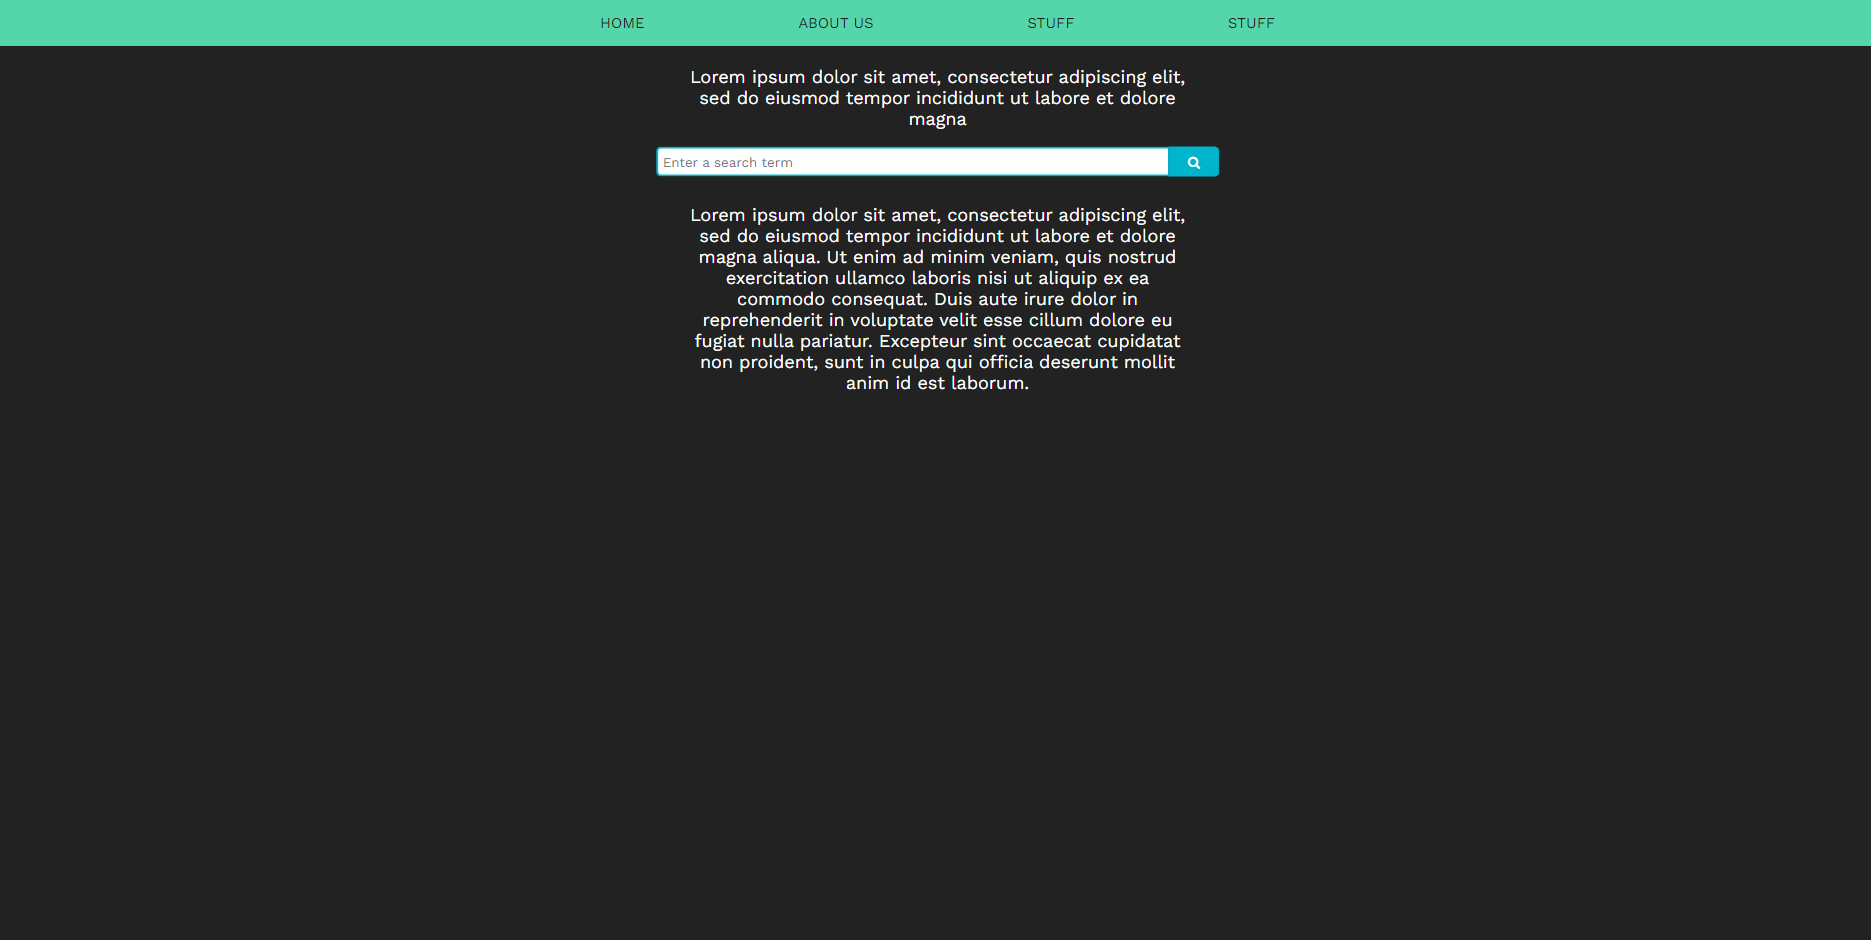
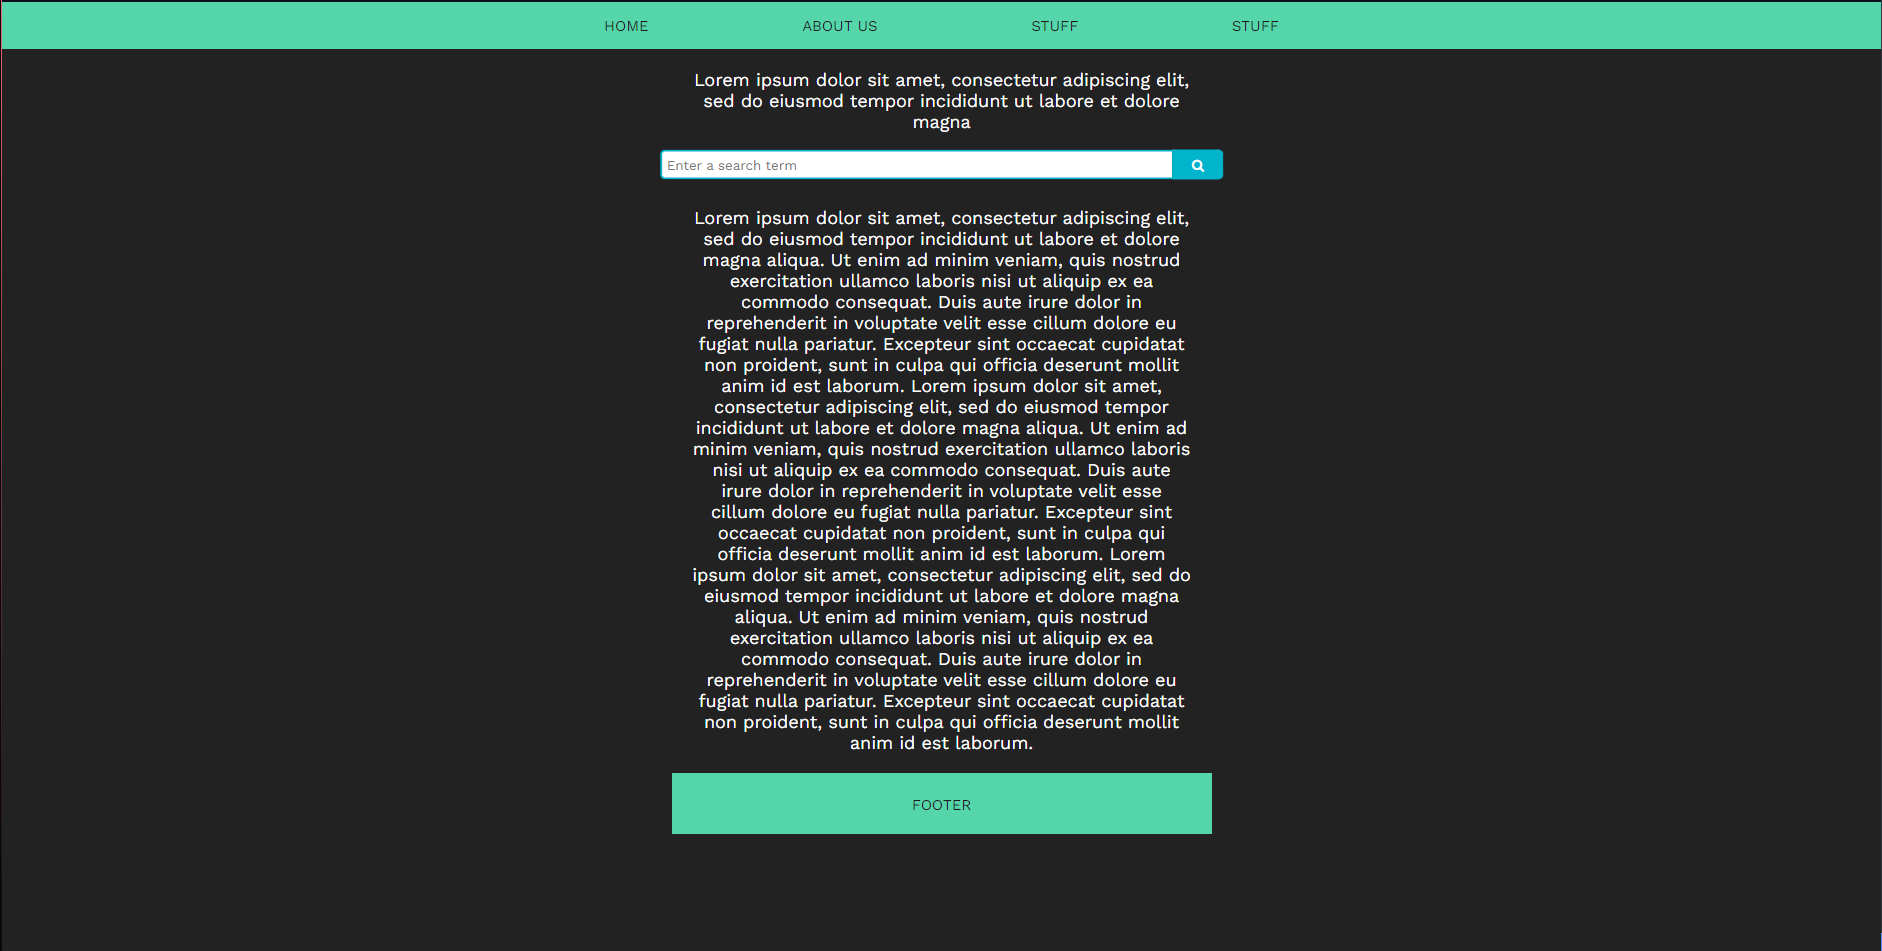
Just some test sql stuff, and basic formatting (i hate sql)

Changed region(s): [[0.0, 0.0, 1.0, 0.8947]]

diff --git a/templates/index.html b/templates/index.html
@@ -1,110 +1,77 @@
 <!DOCTYPE html>
 <html lang="en">
+
 <head>
-    <meta charset="utf-8">
-    <!--use the <link> class and not the <meta> (you are stupid) -->
-    <link rel="stylesheet" href="{{ url_for('static', filename='style.css')}}" type="text/css">
-    <link rel="stylesheet" href="https://cdnjs.cloudflare.com/ajax/libs/font-awesome/4.7.0/css/font-awesome.min.css">
-    <title>Hello World</title>
-    
+  <meta charset="utf-8">
+  <!--use the <link> class and not the <meta> (you are stupid) -->
+  <link rel="stylesheet" href="{{ url_for('static', filename='style.css')}}" type="text/css">
+  <link rel="stylesheet" href="https://cdnjs.cloudflare.com/ajax/libs/font-awesome/4.7.0/css/font-awesome.min.css">
+  <title>Hello World</title>
+
 </head>
 <header>
-    <div class="container">
-      <nav>
-        <ul>
-          <li><a href="#">Home</a></li>
-          <li><a href="#">About Us</a></li>
-          <li><a href="#">Stuff</a></li>
-          <li><a href="#">Stuff</a></li>
-        </ul>
-      </nav>
-    </div>
-  </header>
+  <div class="container">
+    <nav>
+      <ul>
+        <li><a href="#">Home</a></li>
+        <li><a href="#">About Us</a></li>
+        <li><a href="#">Stuff</a></li>
+        <li><a href="#">Stuff</a></li>
+      </ul>
+    </nav>
+  </div>
+</header>
+
 <body>
-    <!-- double curly brackets means using a variable that has been passed through from flask/python: {{search_query}}-->
-    <p>
-      Lorem ipsum dolor sit amet, consectetur adipiscing elit, 
+  <!-- double curly brackets means using a variable that has been passed through from flask/python: {{search_query}}-->
+  <p>
+    Lorem ipsum dolor sit amet, consectetur adipiscing elit,
+    sed do eiusmod tempor incididunt ut labore et dolore magna
+  </p>
+  <!--i'm not doing the actual search function for a long time btw-->
+  <div class="wrap">
+    <form class="search" action="search_home_page" method="POST">
+      <br>
+      <input type="search" name="search_query" class="searchTerm" placeholder="Enter a search term">
+      <br>
+      <button type="submit" id="search_home_page" class="searchButton"><i class="fa fa-search"></i></button>
+    </form>
+  </div>
+  <div class="main_text_body">
+    <p2>
+      Lorem ipsum dolor sit amet, consectetur adipiscing elit,
       sed do eiusmod tempor incididunt ut labore et dolore magna
-    </p>
-    <!--i'm not doing the actual search function for a long time btw-->
-    <div class="wrap">
-      <form class="search" action="search_home_page" method="POST">
-          <br>
-          <input type="search" name="search_query" class="searchTerm" placeholder="Enter a search term">
-          <br>
-          <button type="submit"id="search_home_page" class="searchButton"><i class="fa fa-search"></i></button>
-      </form>
-    </div>
-    <div class="main_text_body">
-      <p2>
-        Lorem ipsum dolor sit amet, consectetur adipiscing elit, 
-        sed do eiusmod tempor incididunt ut labore et dolore magna
-        aliqua. Ut enim ad minim veniam, quis nostrud exercitation
-        ullamco laboris nisi ut aliquip ex ea commodo consequat.
-        Duis aute irure dolor in reprehenderit in voluptate velit
-        esse cillum dolore eu fugiat nulla pariatur. Excepteur sint
-        occaecat cupidatat non proident, sunt in culpa qui officia deserunt
-        mollit anim id est laborum.
+      aliqua. Ut enim ad minim veniam, quis nostrud exercitation
+      ullamco laboris nisi ut aliquip ex ea commodo consequat.
+      Duis aute irure dolor in reprehenderit in voluptate velit
+      esse cillum dolore eu fugiat nulla pariatur. Excepteur sint
+      occaecat cupidatat non proident, sunt in culpa qui officia deserunt
+      mollit anim id est laborum.
 
-        Lorem ipsum dolor sit amet, consectetur adipiscing elit, 
-        sed do eiusmod tempor incididunt ut labore et dolore magna
-        aliqua. Ut enim ad minim veniam, quis nostrud exercitation
-        ullamco laboris nisi ut aliquip ex ea commodo consequat.
-        Duis aute irure dolor in reprehenderit in voluptate velit
-        esse cillum dolore eu fugiat nulla pariatur. Excepteur sint
-        occaecat cupidatat non proident, sunt in culpa qui officia deserunt
-        mollit anim id est laborum.
+      Lorem ipsum dolor sit amet, consectetur adipiscing elit,
+      sed do eiusmod tempor incididunt ut labore et dolore magna
+      aliqua. Ut enim ad minim veniam, quis nostrud exercitation
+      ullamco laboris nisi ut aliquip ex ea commodo consequat.
+      Duis aute irure dolor in reprehenderit in voluptate velit
+      esse cillum dolore eu fugiat nulla pariatur. Excepteur sint
+      occaecat cupidatat non proident, sunt in culpa qui officia deserunt
+      mollit anim id est laborum.
 
-        Lorem ipsum dolor sit amet, consectetur adipiscing elit, 
-        sed do eiusmod tempor incididunt ut labore et dolore magna
-        aliqua. Ut enim ad minim veniam, quis nostrud exercitation
-        ullamco laboris nisi ut aliquip ex ea commodo consequat.
-        Duis aute irure dolor in reprehenderit in voluptate velit
-        esse cillum dolore eu fugiat nulla pariatur. Excepteur sint
-        occaecat cupidatat non proident, sunt in culpa qui officia deserunt
-        mollit anim id est laborum.
-
-        Lorem ipsum dolor sit amet, consectetur adipiscing elit, 
-        sed do eiusmod tempor incididunt ut labore et dolore magna
-        aliqua. Ut enim ad minim veniam, quis nostrud exercitation
-        ullamco laboris nisi ut aliquip ex ea commodo consequat.
-        Duis aute irure dolor in reprehenderit in voluptate velit
-        esse cillum dolore eu fugiat nulla pariatur. Excepteur sint
-        occaecat cupidatat non proident, sunt in culpa qui officia deserunt
-        mollit anim id est laborum.
-
-        Lorem ipsum dolor sit amet, consectetur adipiscing elit, 
-        sed do eiusmod tempor incididunt ut labore et dolore magna
-        aliqua. Ut enim ad minim veniam, quis nostrud exercitation
-        ullamco laboris nisi ut aliquip ex ea commodo consequat.
-        Duis aute irure dolor in reprehenderit in voluptate velit
-        esse cillum dolore eu fugiat nulla pariatur. Excepteur sint
-        occaecat cupidatat non proident, sunt in culpa qui officia deserunt
-        mollit anim id est laborum.
-
-        Lorem ipsum dolor sit amet, consectetur adipiscing elit, 
-        sed do eiusmod tempor incididunt ut labore et dolore magna
-        aliqua. Ut enim ad minim veniam, quis nostrud exercitation
-        ullamco laboris nisi ut aliquip ex ea commodo consequat.
-        Duis aute irure dolor in reprehenderit in voluptate velit
-        esse cillum dolore eu fugiat nulla pariatur. Excepteur sint
-        occaecat cupidatat non proident, sunt in culpa qui officia deserunt
-        mollit anim id est laborum.
-
-        Lorem ipsum dolor sit amet, consectetur adipiscing elit, 
-        sed do eiusmod tempor incididunt ut labore et dolore magna
-        aliqua. Ut enim ad minim veniam, quis nostrud exercitation
-        ullamco laboris nisi ut aliquip ex ea commodo consequat.
-        Duis aute irure dolor in reprehenderit in voluptate velit
-        esse cillum dolore eu fugiat nulla pariatur. Excepteur sint
-        occaecat cupidatat non proident, sunt in culpa qui officia deserunt
-        mollit anim id est laborum.
-      </p2>
-    </div>
+      Lorem ipsum dolor sit amet, consectetur adipiscing elit,
+      sed do eiusmod tempor incididunt ut labore et dolore magna
+      aliqua. Ut enim ad minim veniam, quis nostrud exercitation
+      ullamco laboris nisi ut aliquip ex ea commodo consequat.
+      Duis aute irure dolor in reprehenderit in voluptate velit
+      esse cillum dolore eu fugiat nulla pariatur. Excepteur sint
+      occaecat cupidatat non proident, sunt in culpa qui officia deserunt
+      mollit anim id est laborum.
+    </p2>
+  </div>
 </body>
 <table>
   <footer>
-    <li><a>Footer</a></li> 
+    <li><a>Footer</a></li>
   </footer>
 </table>
+
 </html>

diff --git a/test_sql/test.py b/test_sql/test.py
@@ -1,0 +1,15 @@
+#if i accidentally commit this, its legit just at test file
+#for doing stuff with sqlite
+
+import sqlite3
+
+x = "Bob"
+y = "Joe"
+
+#connecting to the database
+#CHANGE THIS TO YOUR OWN PATH
+conn = sqlite3.connect('C:\Code\Python\AdvancedProjects\FlaskWebApp\database\database.db')
+conn.execute('CREATE TABLE names__ (first_name TEXT, last_name TEXT)')
+conn.execute("INSERT INTO names__ (first_name, last_name) VALUES (?,?)", (x, y))
+conn.commit()
+conn.close()

diff --git a/app.py b/app.py
@@ -5,7 +5,7 @@ from forms import search_home_page
 import sqlite3
 
 #connecting to the database
-connection = sqlite3.connect('database.db')
+conn = sqlite3.connect('database.db')
 
 #some basic info to give flask
 app = Flask(__name__, template_folder='templates', static_folder='static')
